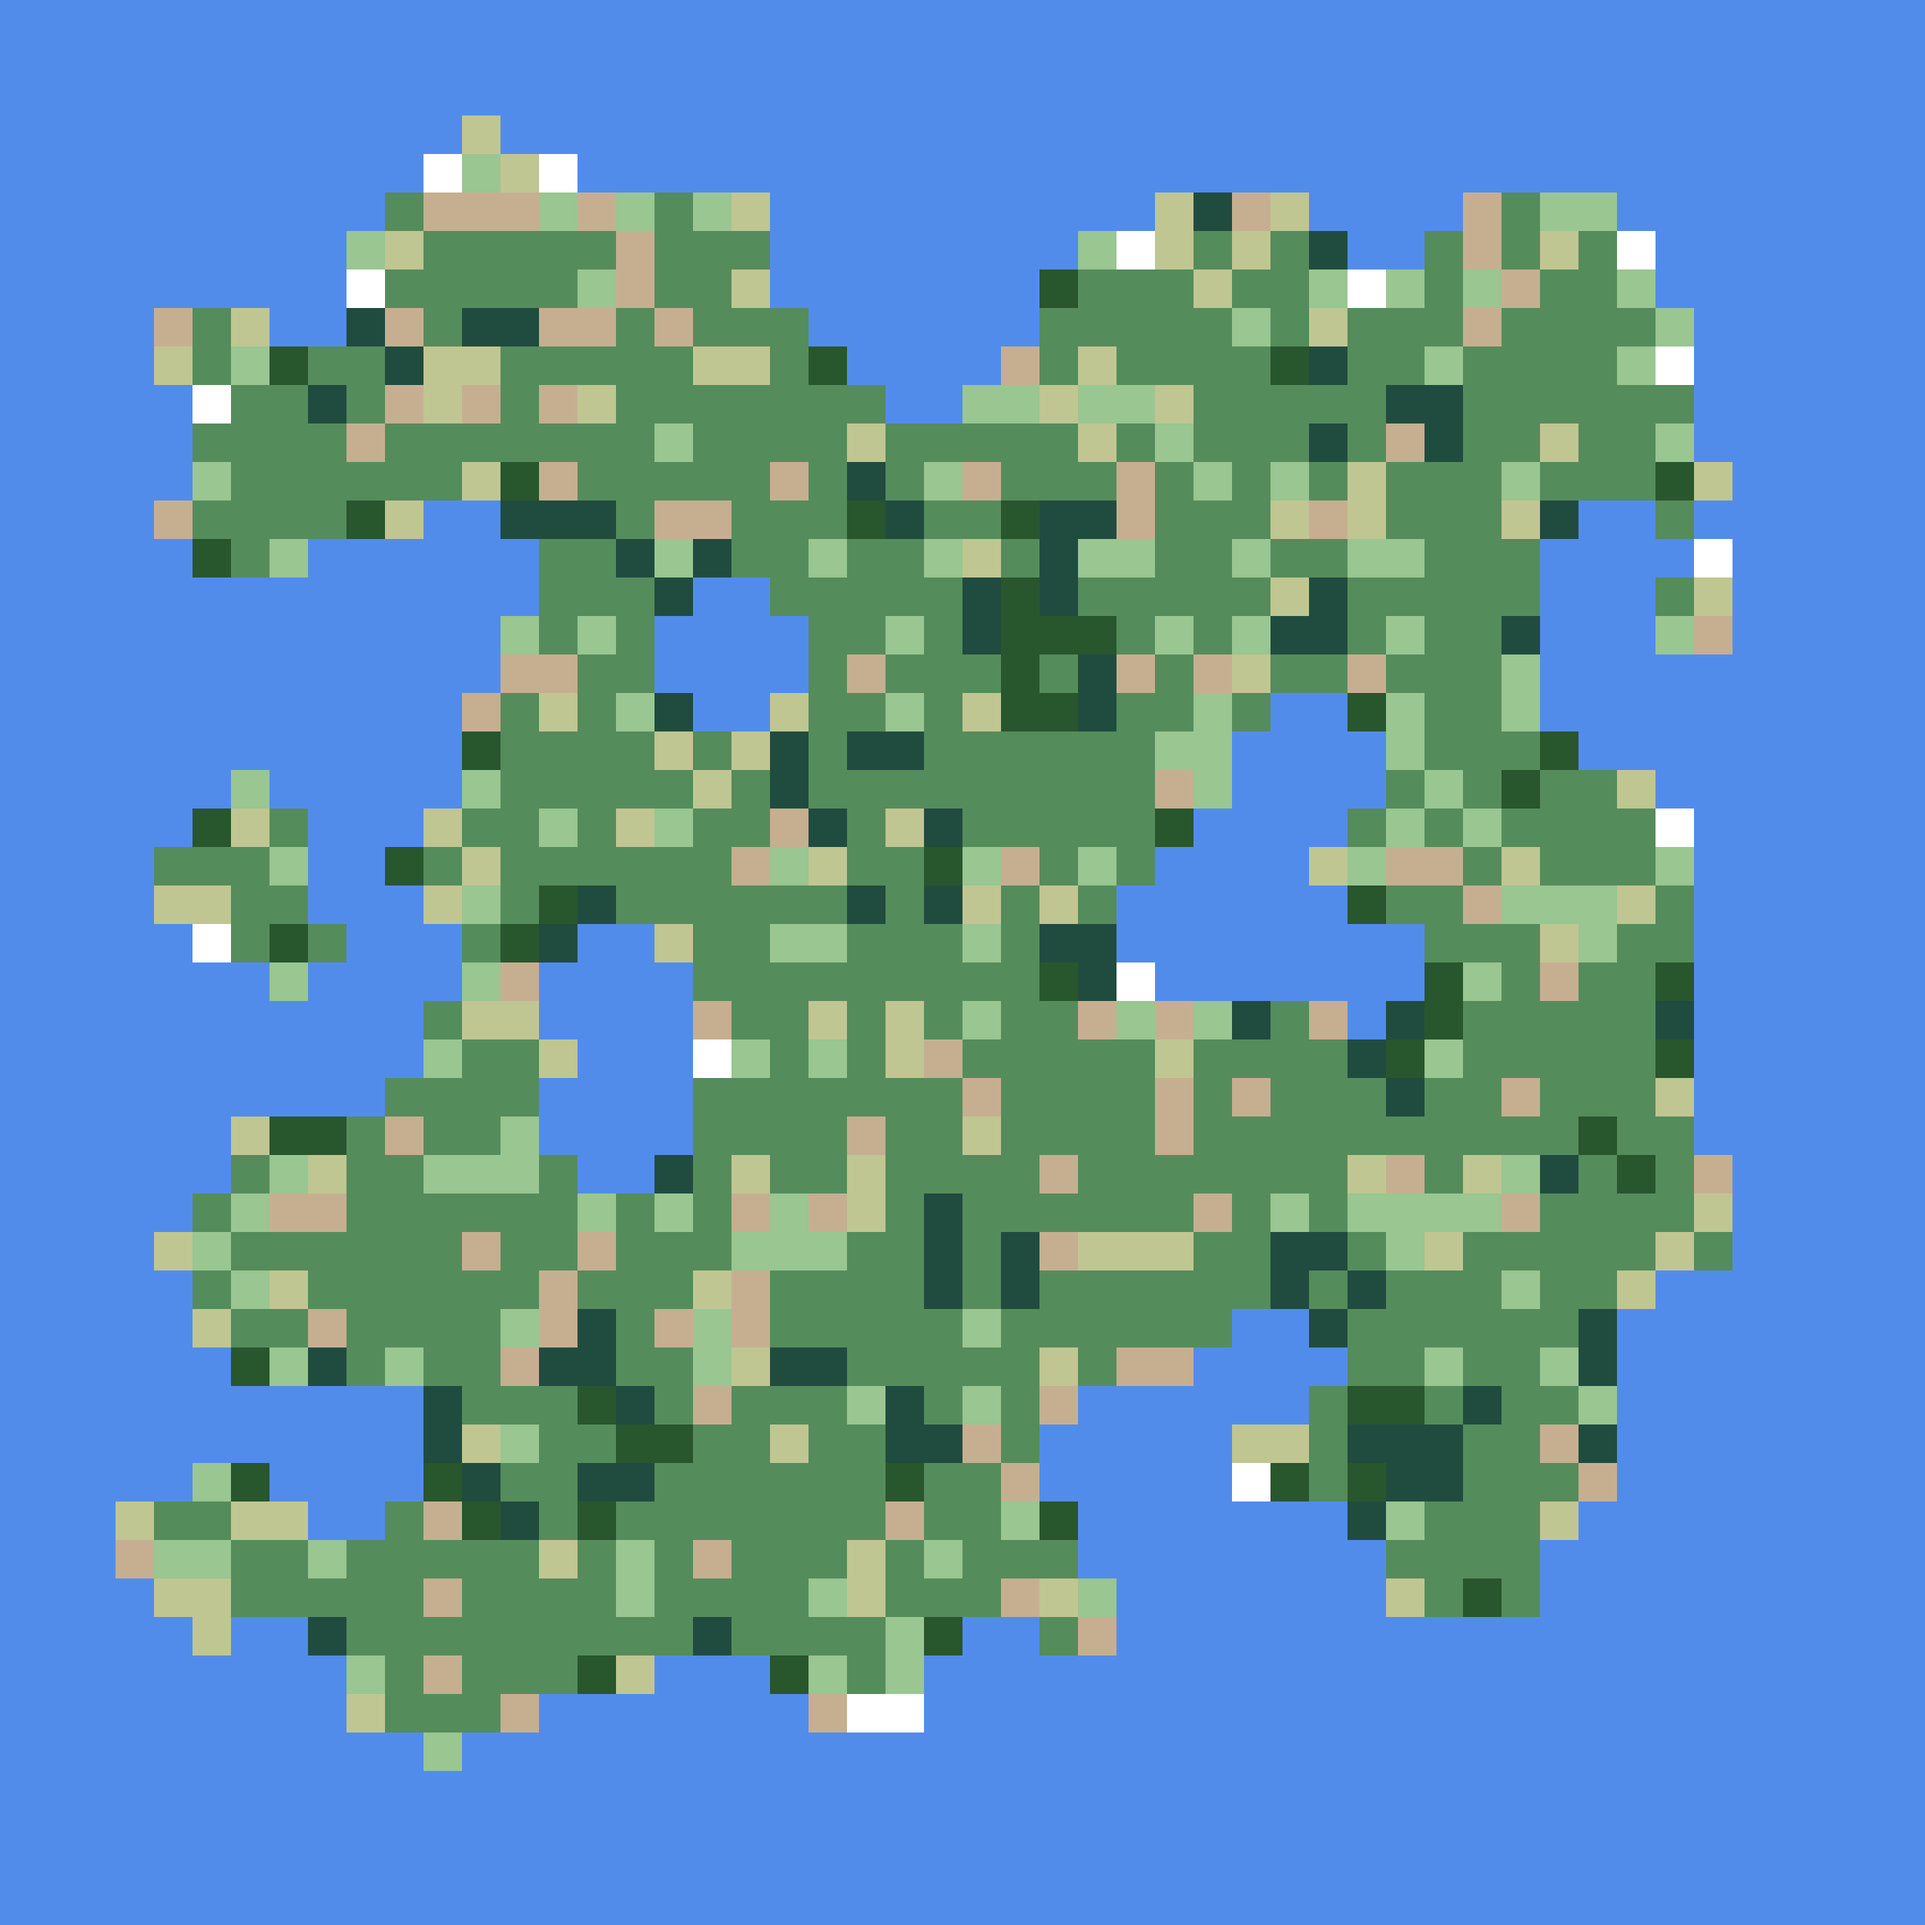
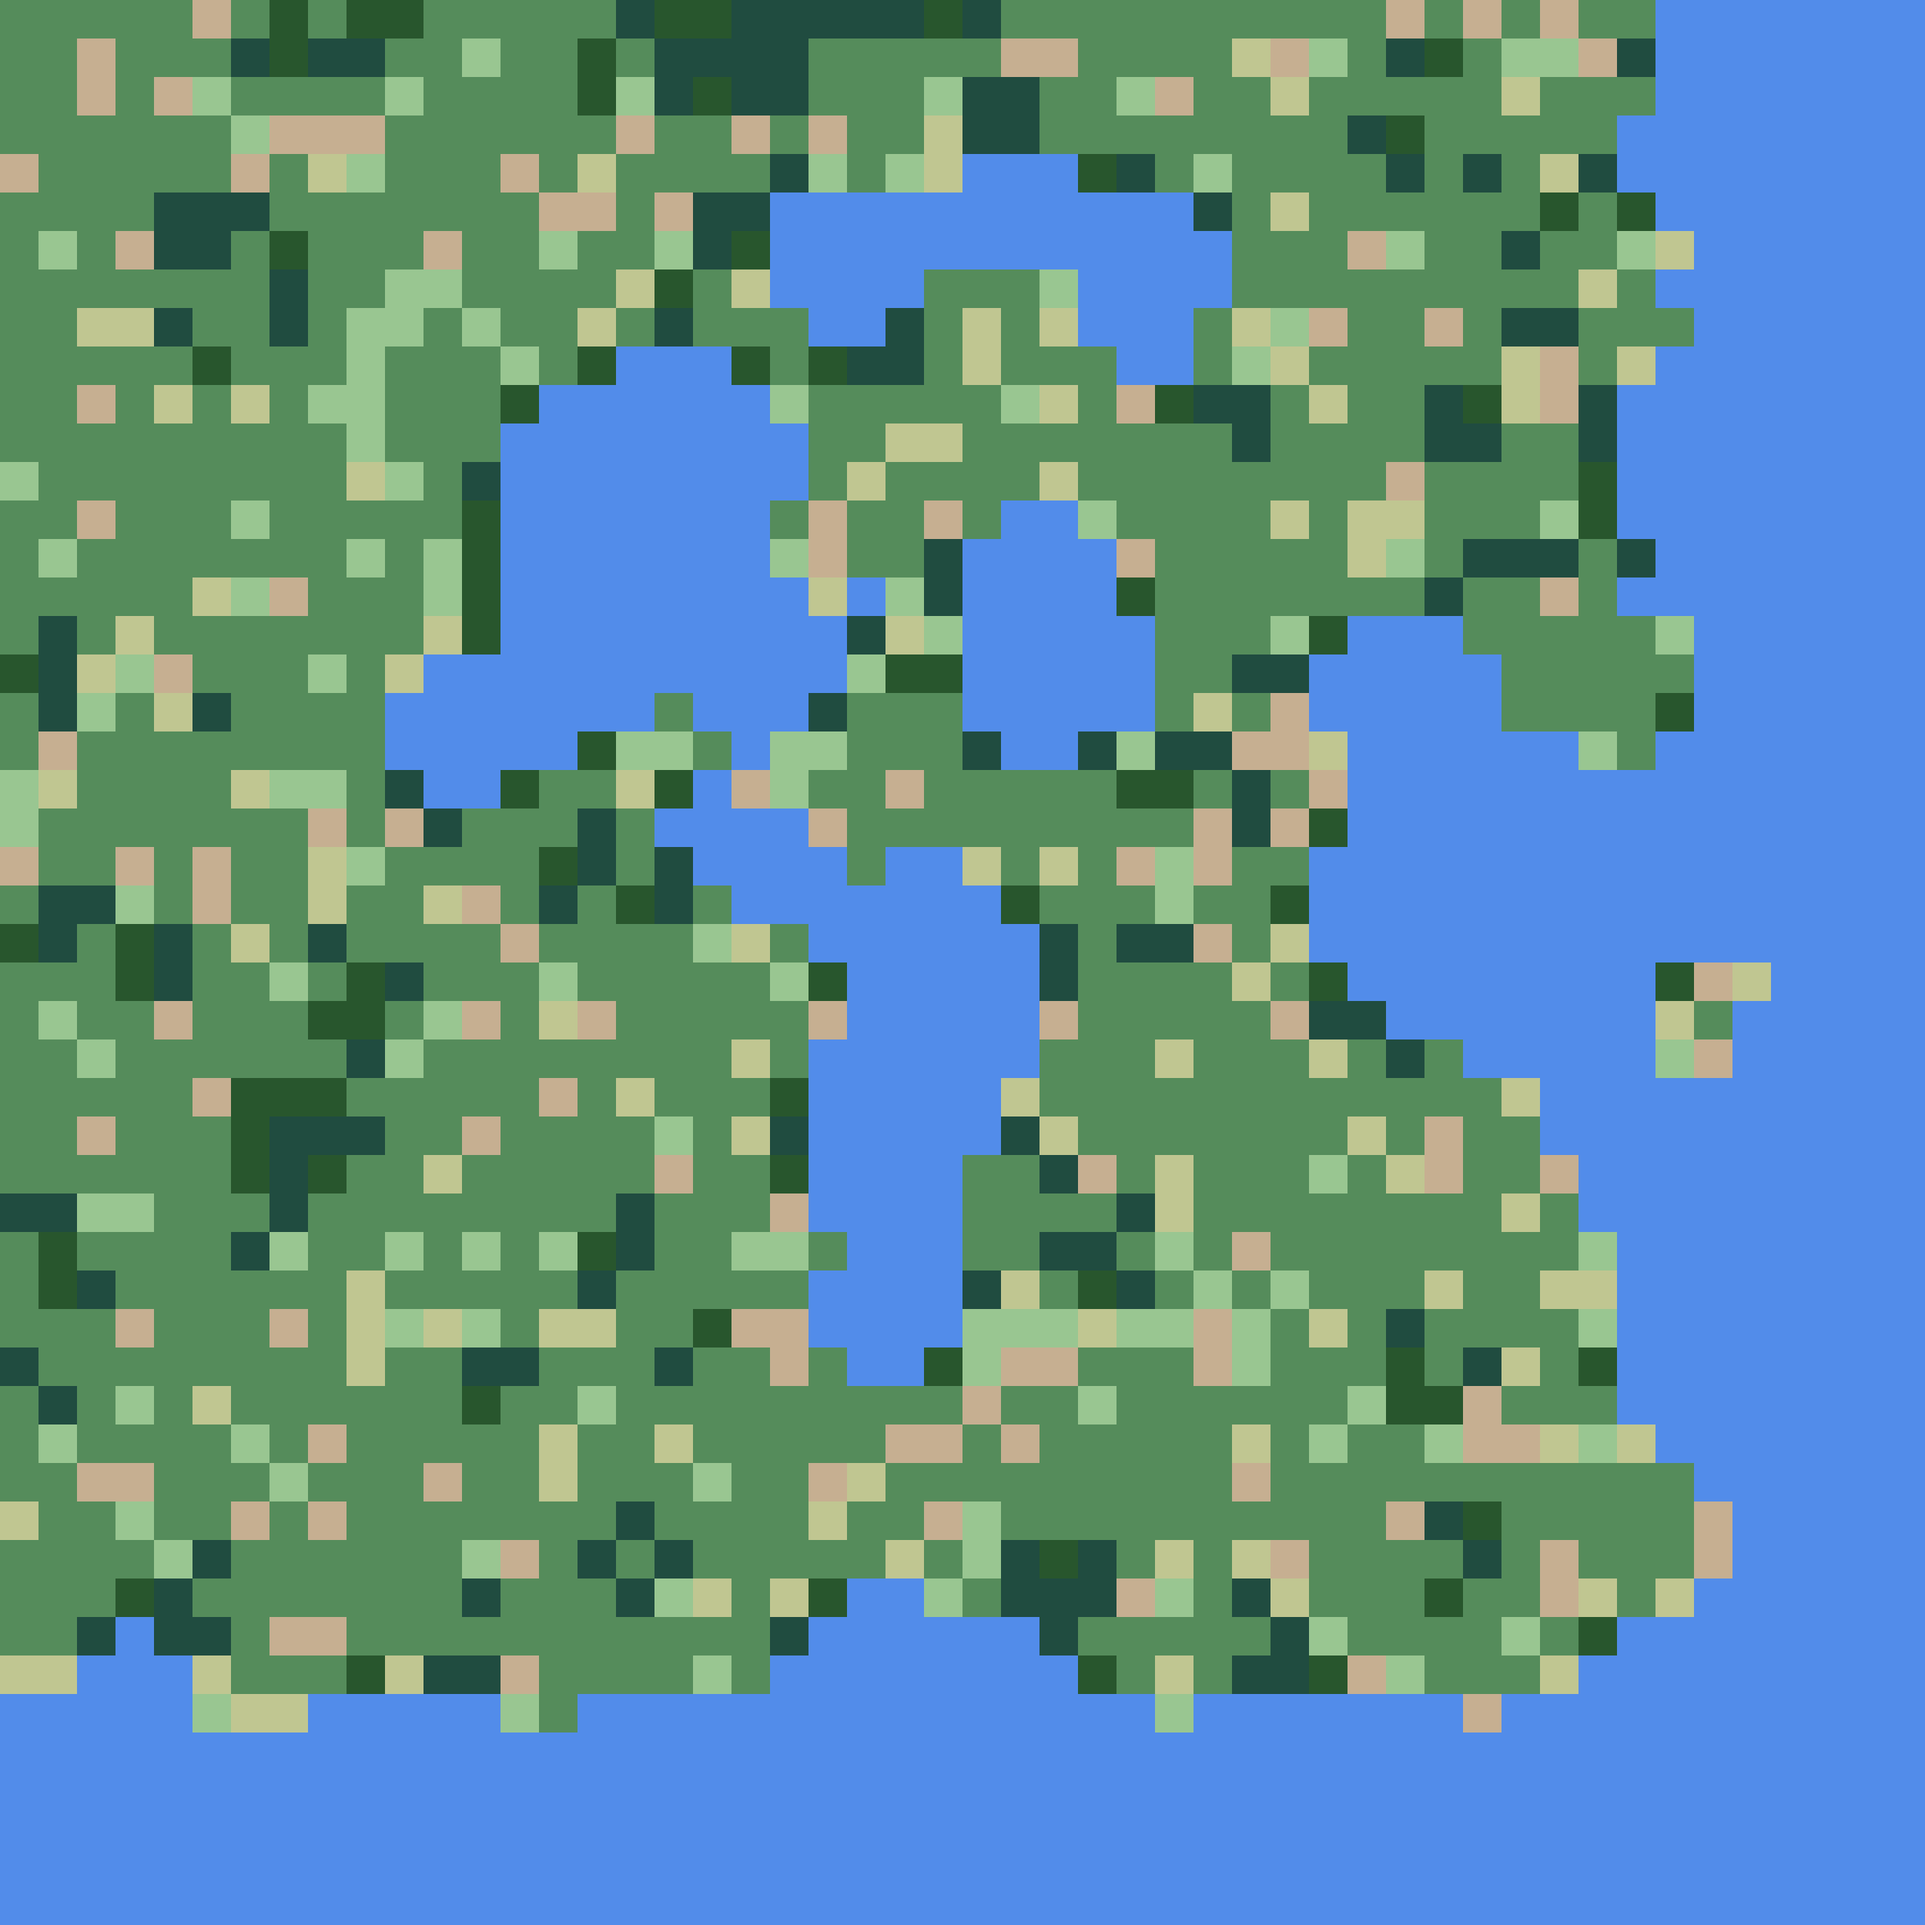
added remove coastal peaks and find peaks

diff --git a/geogen/api.go b/geogen/api.go
@@ -349,6 +349,71 @@ func RemoveSmallLakes(world *World, passes int) *World {
 	return world
 }
 
+func RemoveCoastalPeaks(world *World, passes int) *World {
+	worldMap := world.Tiles
+	for n := 0; n < passes; n++ {
+		for k := 0; k < len(worldMap); k++ {
+			row := &worldMap[k]
+			for l := 0; l < len(*row); l++ {
+				tile := world.GetTile(k, l)
+				if tile.Elevation > 4 {
+					coast := false
+					tiles := world.GetSurroundingTiles(k, l)
+					for _, t := range tiles {
+						if t.GeoType == 1 {
+							coast = true
+						}
+					}
+					if coast {
+						tile.Elevation = 0
+						tile.GeoType = 1
+					}
+				}
+			}
+		}
+
+	}
+	return world
+
+}
+
+func FindPeaks(world *World, peaks int) []*types.Tile {
+	finalPeaks := []*types.Tile{}
+	worldMap := world.Tiles
+	for k := 0; k < len(worldMap); k++ {
+		row := &worldMap[k]
+		for l := 0; l < len(*row); l++ {
+			tile := world.GetTile(k, l)
+			if tile.Elevation > 4 && len(finalPeaks) < peaks {
+				finalPeaks = append(finalPeaks, tile)
+			}
+		}
+	}
+	minimumSurroundingPeaks := 8
+	for len(finalPeaks) < peaks {
+		for k := 0; k < len(worldMap); k++ {
+			row := &worldMap[k]
+			for l := 0; l < len(*row); l++ {
+				tile := world.GetTile(k, l)
+				if tile.Elevation == 4 && len(finalPeaks) < peaks {
+					surroundingPeaks := 0
+					tiles := world.GetSurroundingTiles(k, l)
+					for _, t := range tiles {
+						if t.Elevation == 4 {
+							surroundingPeaks += 1
+						}
+					}
+					if surroundingPeaks >= minimumSurroundingPeaks {
+						finalPeaks = append(finalPeaks, tile)
+					}
+				}
+			}
+		}
+		minimumSurroundingPeaks--
+	}
+	return finalPeaks
+}
+
 func RaiseLand(world *World, passes int) *World {
 	worldMap := world.Tiles
 	for n := 0; n < passes; n++ {

diff --git a/main.go b/main.go
@@ -18,7 +18,7 @@ func GenerateWorld() {
 	fmt.Println("NORMALIZING ELEVATION")
 	world = geogen.NormalizeElevation(world, 3)
 	fmt.Println("GENERATING COASTS")
-	world = geogen.GenerateCoastalOffset(world, 4, 6, 6, 4, 7)
+	world = geogen.GenerateCoastalOffset(world, 0, 6, 6, 0, 7)
 	fmt.Println("FLOODING MAP")
 	world = geogen.FloodMap(world)
 	fmt.Println("REMOVING OUTLIERS")
@@ -30,6 +30,7 @@ func GenerateWorld() {
 	world = geogen.RemoveSmallLakes(world, 2)
 	world = geogen.RemoveOutliers(world, 1)
 	world = geogen.RaiseLand(world, 1)
+	world = geogen.RemoveCoastalPeaks(world, 1)
 	// fmt.Println("GENERATING RIVERS")
 	// world = geogen.RiverGen(world, 1)
 	fmt.Println("PRINTING MAP")
